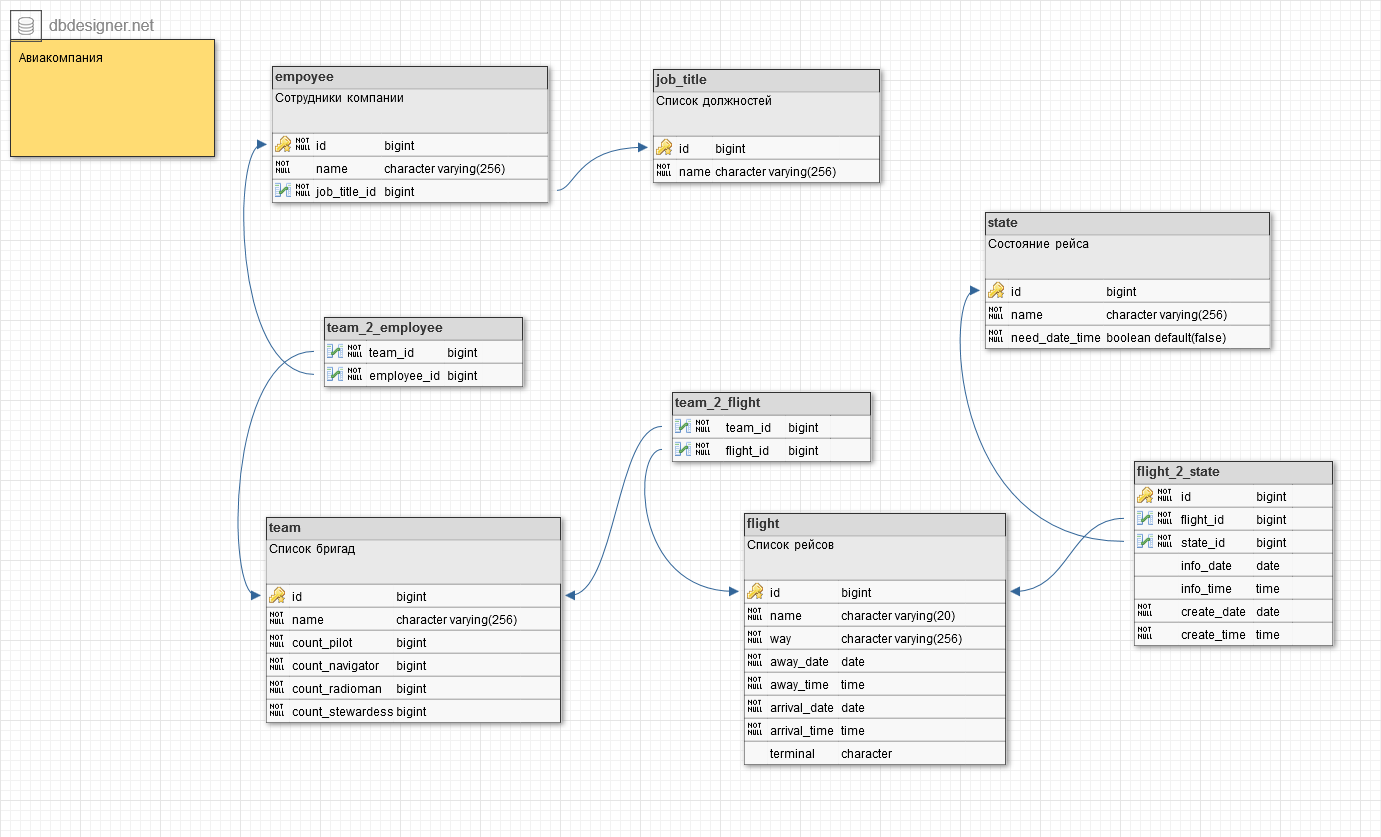
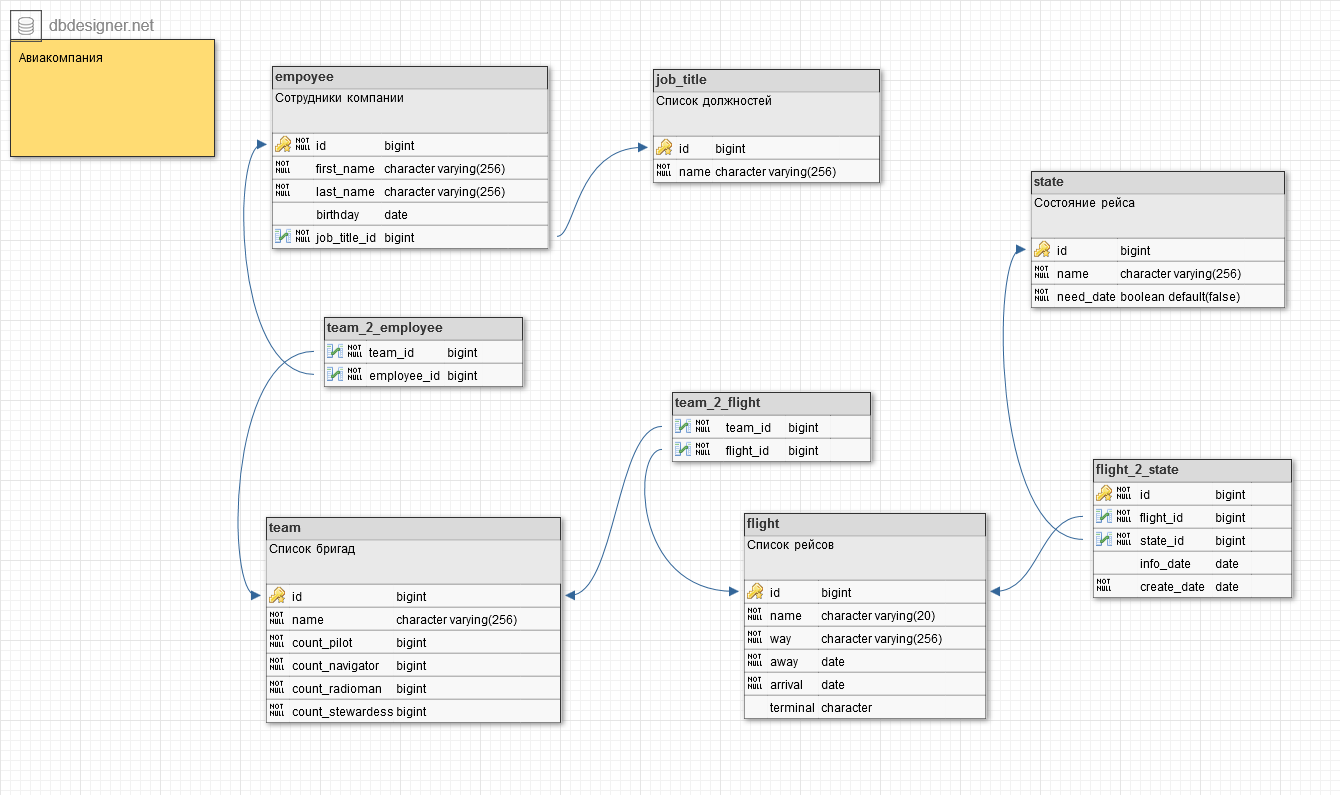
no comments

diff --git a/datamodel/src/main/java/com/epam/training2016/aviacompany/datamodel/Flight.java b/datamodel/src/main/java/com/epam/training2016/aviacompany/datamodel/Flight.java
@@ -3,20 +3,40 @@ package com.epam.training2016.aviacompany.datamodel;
 import java.util.Date;
 
 public class Flight extends AbstractModel {
-	private Date arrival;
-	private Long teamId;
-	public Date getArrival() {
-		return arrival;
+	private String name;
+	private String way;
+	private Date awayDate;
+	private Date arrivalDate;
+	private String terminal;
+
+	public String getName() {
+		return name;
 	}
-	public void setArrival(Date arrival) {
-		this.arrival = arrival;
+	public void setName(String name) {
+		this.name = name;
 	}
-	public Long getTeamId() {
-		return teamId;
+	public String getWay() {
+		return way;
 	}
-	public void setTeamId(Long teamId) {
-		this.teamId = teamId;
+	public void setWay(String way) {
+		this.way = way;
 	}
-	
-	
+	public Date getAwayDate() {
+		return awayDate;
+	}
+	public void setAwayDate(Date awayDate) {
+		this.awayDate = awayDate;
+	}
+	public Date getArrivalDate() {
+		return arrivalDate;
+	}
+	public void setArrivalDate(Date arrivalDate) {
+		this.arrivalDate = arrivalDate;
+	}
+	public String getTerminal() {
+		return terminal;
+	}
+	public void setTerminal(String terminal) {
+		this.terminal = terminal;
+	}
 }

diff --git a/datamodel/src/main/java/com/epam/training2016/aviacompany/datamodel/Employee.java b/datamodel/src/main/java/com/epam/training2016/aviacompany/datamodel/Employee.java
@@ -1,32 +1,36 @@
 package com.epam.training2016.aviacompany.datamodel;
 
+import java.util.Date;
+
 public class Employee extends AbstractModel {
-	private Long companyId;
+	private String firstName;
+	private String lastName;
+	private Date birtday;
 	private Long jobTitleId;
-	private Long stateId;
-
-	public Long getCompanyId() {
-		return companyId;
+	
+	public String getFirstName() {
+		return firstName;
 	}
-
-	public void setCompanyId(Long companyId) {
-		this.companyId = companyId;
+	public void setFirstName(String firstName) {
+		this.firstName = firstName;
 	}
-
+	public String getLastName() {
+		return lastName;
+	}
+	public void setLastName(String lastName) {
+		this.lastName = lastName;
+	}
+	public Date getBirtday() {
+		return birtday;
+	}
+	public void setBirtday(Date birtday) {
+		this.birtday = birtday;
+	}
 	public Long getJobTitleId() {
 		return jobTitleId;
 	}
-
 	public void setJobTitleId(Long jobTitleId) {
 		this.jobTitleId = jobTitleId;
-	}
-
-	public Long getStateId() {
-		return stateId;
-	}
-
-	public void setStateId(Long stateId) {
-		this.stateId = stateId;
 	}
 	
 	

diff --git a/datamodel/src/main/java/com/epam/training2016/aviacompany/datamodel/FlightToState.java b/datamodel/src/main/java/com/epam/training2016/aviacompany/datamodel/FlightToState.java
@@ -1,0 +1,38 @@
+package com.epam.training2016.aviacompany.datamodel;
+
+import java.util.Date;
+
+public class FlightToState extends AbstractModel {
+	private Long flightId;
+	private Long stateId;
+	private Date infoDate;
+	private Date createDate;
+	
+	public Long getFlightId() {
+		return flightId;
+	}
+	public void setFlightId(Long flightId) {
+		this.flightId = flightId;
+	}
+	public Long getStateId() {
+		return stateId;
+	}
+	public void setStateId(Long stateId) {
+		this.stateId = stateId;
+	}
+	public Date getInfoDate() {
+		return infoDate;
+	}
+	public void setInfoDate(Date infoDate) {
+		this.infoDate = infoDate;
+	}
+	public Date getCreateDate() {
+		return createDate;
+	}
+	public void setCreateDate(Date createDate) {
+		this.createDate = createDate;
+	}
+	
+	
+	
+}

diff --git a/datamodel/src/main/java/com/epam/training2016/aviacompany/datamodel/Team.java b/datamodel/src/main/java/com/epam/training2016/aviacompany/datamodel/Team.java
@@ -1,10 +1,18 @@
 package com.epam.training2016.aviacompany.datamodel;
 
 public class Team extends AbstractModel {
+	private String name;
 	private Long countPilot;
 	private Long countNavigator;
 	private Long countRadioman;
 	private Long countStewardess;
+
+	public String getName() {
+		return name;
+	}
+	public void setName(String name) {
+		this.name = name;
+	}
 	public Long getCountPilot() {
 		return countPilot;
 	}
@@ -29,6 +37,4 @@ public class Team extends AbstractModel {
 	public void setCountStewardess(Long countStewardess) {
 		this.countStewardess = countStewardess;
 	}
-	
-	
 }

diff --git a/datamodel/src/main/java/com/epam/training2016/aviacompany/datamodel/State.java b/datamodel/src/main/java/com/epam/training2016/aviacompany/datamodel/State.java
@@ -1,5 +1,22 @@
 package com.epam.training2016.aviacompany.datamodel;
 
 public class State extends AbstractModel {
-
+	private String name;
+	private Boolean needDate;
+	
+	public String getName() {
+		return name;
+	}
+	public void setName(String name) {
+		this.name = name;
+	}
+	public Boolean getNeedDate() {
+		return needDate;
+	}
+	public void setNeedDate(Boolean needDate) {
+		this.needDate = needDate;
+	}
+	
+	
+	
 }

diff --git a/datamodel/src/main/java/com/epam/training2016/aviacompany/datamodel/AbstractModel.java b/datamodel/src/main/java/com/epam/training2016/aviacompany/datamodel/AbstractModel.java
@@ -3,19 +3,11 @@ package com.epam.training2016.aviacompany.datamodel;
 public class AbstractModel {
 
     private Long id;
-    private String name;
 	public Long getId() {
 		return id;
 	}
 	public void setId(Long id) {
 		this.id = id;
 	}
-	public String getName() {
-		return name;
-	}
-	public void setName(String name) {
-		this.name = name;
-	}
-
 
 }

diff --git a/datamodel/src/main/java/com/epam/training2016/aviacompany/datamodel/JobTitle.java b/datamodel/src/main/java/com/epam/training2016/aviacompany/datamodel/JobTitle.java
@@ -1,5 +1,15 @@
 package com.epam.training2016.aviacompany.datamodel;
 
 public class JobTitle {
+	private String name;
 
+	public String getName() {
+		return name;
+	}
+
+	public void setName(String name) {
+		this.name = name;
+	}
+	
+	
 }
